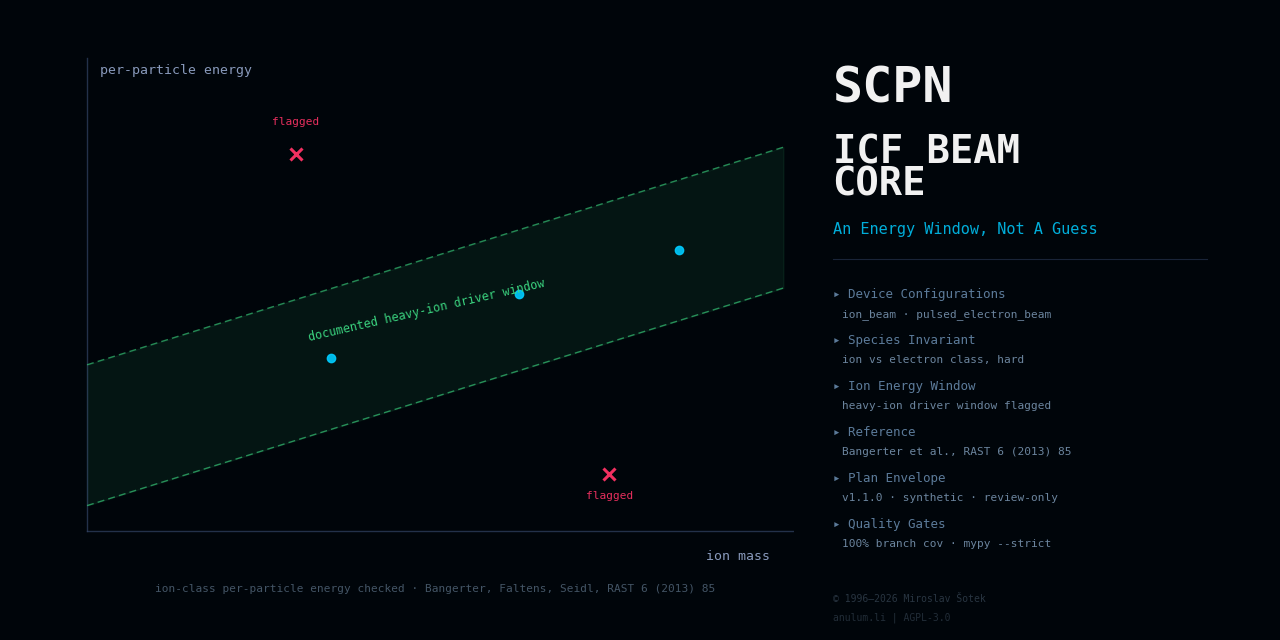
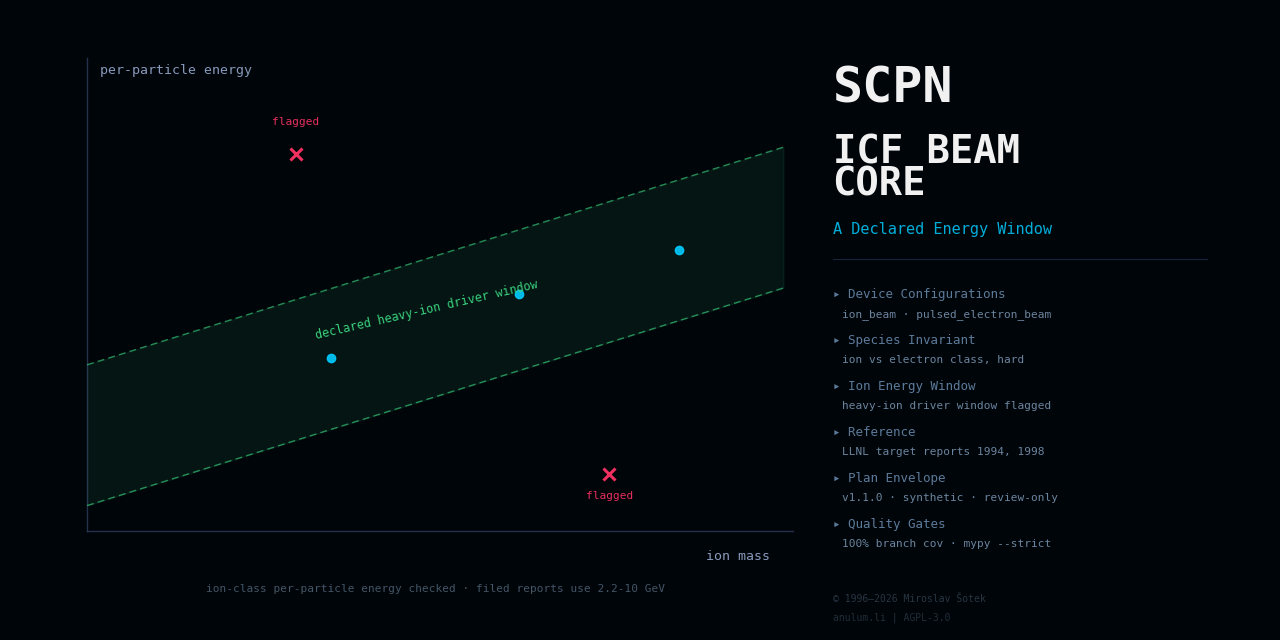
docs(configuration): name the heavy-ion energy window declared
The configuration and parameter modules, ADR 0002, VALIDATION and the
header artwork credited the [1, 10] GeV heavy-ion driver window to
Bangerter, Faltens & Seidl, Rev. Accel. Sci. Technol. 6 (2013) 85, which
is not on file, and called it documented. The two filed heavy-ion target
reports print the energies they use: 2.2 to 8 GeV lead ions in
D. A. Callahan-Miller and M. Tabak, UCRL-JC-131974 (1998), PDF pp. 4-5,
and 5, 7.5 and 10 GeV ion beams in D. D.-M. Ho, J. A. Harte and
M. Tabak, UCRL-JC-118161 (1994), PDF p. 8 (title pages read for the
author names). The window is now named declared with those values
quoted; the finding says "declared heavy-ion driver" and its test asserts
it. ADR 0002 gains a dated amendment. The header labels follow and the
three PNGs are regenerated (byte-identical regeneration from the
unchanged generator first; energy-window image viewed). No value or
check changes.

Verification: ruff, format and mypy strict clean; targeted tests
test_configuration, test_parameters, test_repository_contract,
test_derive_studio_descriptor and test_generate_capability_inventory:
121 passed. Staged diff read line by line before commit.

Seat: 09bd
Authored by Anulum Fortis & Arcane Sapience (protoscience@anulum.li)

diff --git a/src/scpn_icf_beam_core/configuration.py b/src/scpn_icf_beam_core/configuration.py
@@ -12,12 +12,16 @@ A :class:`DeviceConfiguration` composes a validated beam driver and
 target declaration under exactly one of the two registry identifiers
 this repository owns. The species class invariant is hard (ion for
 `ion_beam_icf`, electron for `pulsed_electron_beam_icf`); an ion-class
-per-particle energy outside the documented heavy-ion driver window is
-flagged (Bangerter, Faltens & Seidl, RAST 6 (2013) 85). Serialisation
-is canonical (sorted keys, no NaN or infinity accepted anywhere) and
-the SHA-256 digest of those bytes identifies the exact parameter set.
-The registry binding is a data pin only — this package never imports
-SCPN Phase Orchestrator code.
+per-particle energy outside the declared heavy-ion driver window ``[1,
+10] GeV`` is flagged. The window is a modelling choice: the filed
+heavy-ion target reports use 2.2 to 8 GeV lead ions (D. A.
+Callahan-Miller, M. Tabak, UCRL-JC-131974 (1998), PDF pp. 4-5) and 5 to
+10 GeV ion beams (D. D.-M. Ho, J. A. Harte, M. Tabak, UCRL-JC-118161
+(1994), PDF p. 8); Bangerter, Faltens & Seidl, RAST 6 (2013) 85, is not
+on file. Serialisation is canonical (sorted keys, no NaN or infinity
+accepted anywhere) and the SHA-256 digest of those bytes identifies the
+exact parameter set. The registry binding is a data pin only — this
+package never imports SCPN Phase Orchestrator code.
 """
 
 from __future__ import annotations
@@ -149,8 +153,8 @@ class DeviceConfiguration:
         Returns
         -------
         tuple of ConsistencyFinding
-            Advisory findings from the documented estimates; empty when
-            an ion-class per-particle energy sits in the documented
+            Advisory findings from the declared estimates; empty when
+            an ion-class per-particle energy sits in the declared
             heavy-ion driver window, and always empty for the electron
             class. Findings are advisory instruments, not machine
             claims.
@@ -165,7 +169,7 @@ class DeviceConfiguration:
                         field="driver.particle_energy_gev",
                         message=(
                             f"per-particle energy {energy:.3g} GeV is "
-                            f"outside the documented heavy-ion driver "
+                            f"outside the declared heavy-ion driver "
                             f"window [{low:.0f}, {high:.0f}] GeV"
                         ),
                     )

diff --git a/docs/assets/generate_header.py b/docs/assets/generate_header.py
@@ -20,7 +20,7 @@ Outputs (written next to this script):
   lattices and converging ion bunches (used by ``README.md``).
 - ``repo_header_species_split.png`` — the ion class beside the pulsed
   electron class.
-- ``repo_header_energy_window.png`` — the documented heavy-ion driver
+- ``repo_header_energy_window.png`` — the declared heavy-ion driver
   window with flagged outliers.
 
 Generation-time tooling only: requires ``numpy`` and ``matplotlib``,
@@ -52,7 +52,7 @@ TITLE_METRICS: list[tuple[str, str]] = [
     ("Device Configurations", "ion_beam · pulsed_electron_beam"),
     ("Species Invariant", "ion vs electron class, hard"),
     ("Ion Energy Window", "heavy-ion driver window flagged"),
-    ("Reference", "Bangerter et al., RAST 6 (2013) 85"),
+    ("Reference", "LLNL target reports 1994, 1998"),
     ("Plan Envelope", "v1.1.0 · synthetic · review-only"),
     ("Quality Gates", "100% branch cov · mypy --strict"),
 ]
@@ -510,7 +510,7 @@ def generate_energy_window() -> None:
     ax.text(
         4.9,
         5.15,
-        "documented heavy-ion driver window",
+        "declared heavy-ion driver window",
         color=GREEN,
         fontsize=8.5,
         fontfamily="monospace",
@@ -565,14 +565,13 @@ def generate_energy_window() -> None:
     ax.text(
         5.0,
         0.75,
-        "ion-class per-particle energy checked · Bangerter, Faltens, "
-        "Seidl, RAST 6 (2013) 85",
+        "ion-class per-particle energy checked · filed reports use 2.2-10 GeV",
         color="#445566",
         fontsize=8,
         fontfamily="monospace",
         ha="center",
     )
-    _text_panel(fig, "An Energy Window, Not A Guess")
+    _text_panel(fig, "A Declared Energy Window")
     _save(fig, plt, "repo_header_energy_window.png")
 
 

diff --git a/src/scpn_icf_beam_core/parameters.py b/src/scpn_icf_beam_core/parameters.py
@@ -10,9 +10,9 @@
 
 The derived quantity implements one standard estimate and nothing more:
 the beam power ``P = E / tau``. It is a rough consistency instrument
-with documented applicability bounds (heavy-ion driver window;
-R. O. Bangerter, A. Faltens, P. A. Seidl, Rev. Accel. Sci. Technol. 6
-(2013) 85); no claim about any real machine follows from it.
+with documented applicability bounds (the declared heavy-ion driver
+window; see the configuration module); no claim about any real machine
+follows from it.
 """
 
 from __future__ import annotations

diff --git a/tests/test_configuration.py b/tests/test_configuration.py
@@ -89,6 +89,7 @@ def test_consistency_report_clean_and_findings() -> None:
     findings = slow.consistency_report()
     assert len(findings) == 1
     assert "heavy-ion driver" in findings[0].message
+    assert "declared heavy-ion driver" in findings[0].message
     electron = synthetic_configuration(
         "pulsed_electron_beam_icf", species="electron", particle_energy_gev=0.1
     )

diff --git a/docs/adr/0002-device-configuration-model.md b/docs/adr/0002-device-configuration-model.md
@@ -38,10 +38,12 @@ configurations this repository owns (`ion_beam_icf`,
    `pulsed_electron_beam_icf`.
 4. Derived quantity: the beam power ``P = E / tau``. Advisory finding,
    reported by `consistency_report()` and never clamped: an ion-class
-   per-particle kinetic energy outside the documented heavy-ion-fusion
-   driver window ``[1, 10] GeV`` (R. O. Bangerter, A. Faltens,
-   P. A. Seidl, Rev. Accel. Sci. Technol. 6 (2013) 85); the window is
-   not applied to the electron class.
+   per-particle kinetic energy outside the declared heavy-ion-fusion
+   driver window ``[1, 10] GeV``; the window is not applied to the
+   electron class. The filed target reports use 2.2 to 8 GeV lead ions
+   (Callahan-Miller & Tabak, UCRL-JC-131974 (1998), PDF pp. 4-5) and
+   5 to 10 GeV ion beams (Ho, Harte & Tabak, UCRL-JC-118161 (1994),
+   PDF p. 8).
 5. Repository-level `evidence_maturity` = the highest state claimed by
    any capability entry; per-capability states are the authoritative
    claim surface.
@@ -59,3 +61,11 @@ configurations this repository owns (`ion_beam_icf`,
 - Later lanes (driver/burn diagnostic semantics with the bang-time
   anchor, safety envelope) build on these types; maturity advances per
   capability only with the evidence the family standard requires.
+
+## Amendment 2026-10-31
+
+The ``[1, 10] GeV`` window was credited to R. O. Bangerter, A. Faltens,
+P. A. Seidl, Rev. Accel. Sci. Technol. 6 (2013) 85, which is not on
+file, and called documented. It is now named declared; the ion energies
+printed by the two filed heavy-ion target reports (2.2 to 10 GeV) are
+quoted beside it. No value or check changed.

diff --git a/VALIDATION.md b/VALIDATION.md
@@ -84,9 +84,12 @@ What is exercised, all under the 100 % statement-and-branch coverage gate:
   rejection branch is tested.
 - The beam-power relation `P = E / tau` as a documented derived
   quantity, with an advisory finding for ion-class per-particle energies
-  outside the documented heavy-ion driver window `[1, 10] GeV`
-  (Bangerter, Faltens & Seidl, Rev. Accel. Sci. Technol. 6 (2013) 85;
-  not applied to the electron class), reported and never clamped.
+  outside the declared heavy-ion driver window `[1, 10] GeV` (the filed
+  target reports use 2.2 to 8 GeV lead ions, Callahan-Miller & Tabak
+  1998, PDF pp. 4-5, and 5 to 10 GeV ion beams, Ho, Harte & Tabak 1994,
+  PDF p. 8; the Bangerter, Faltens & Seidl 2013 credit, not on file, was
+  removed on 2026-10-31; not applied to the electron class), reported
+  and never clamped.
 - Canonical serialisation (sorted keys, NaN/infinity rejected on both
   emit and parse), SHA-256 digest identity, and a strict round-trip
   parser that refuses unknown fields.
